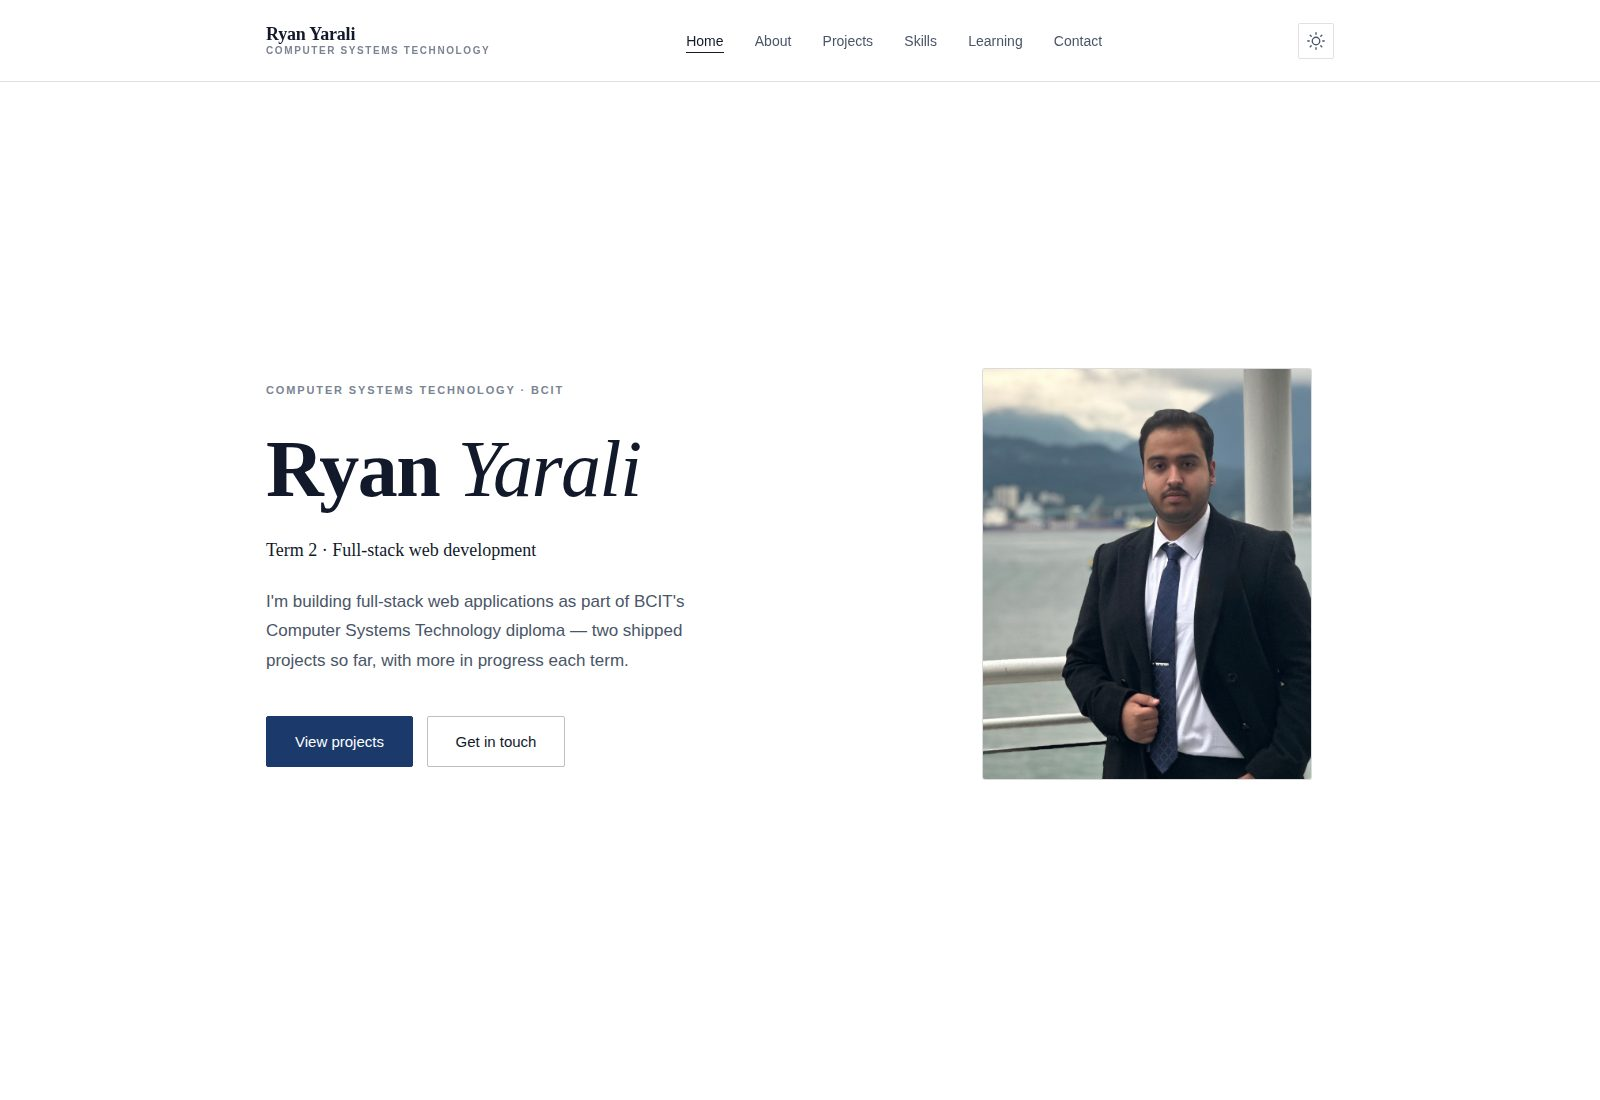
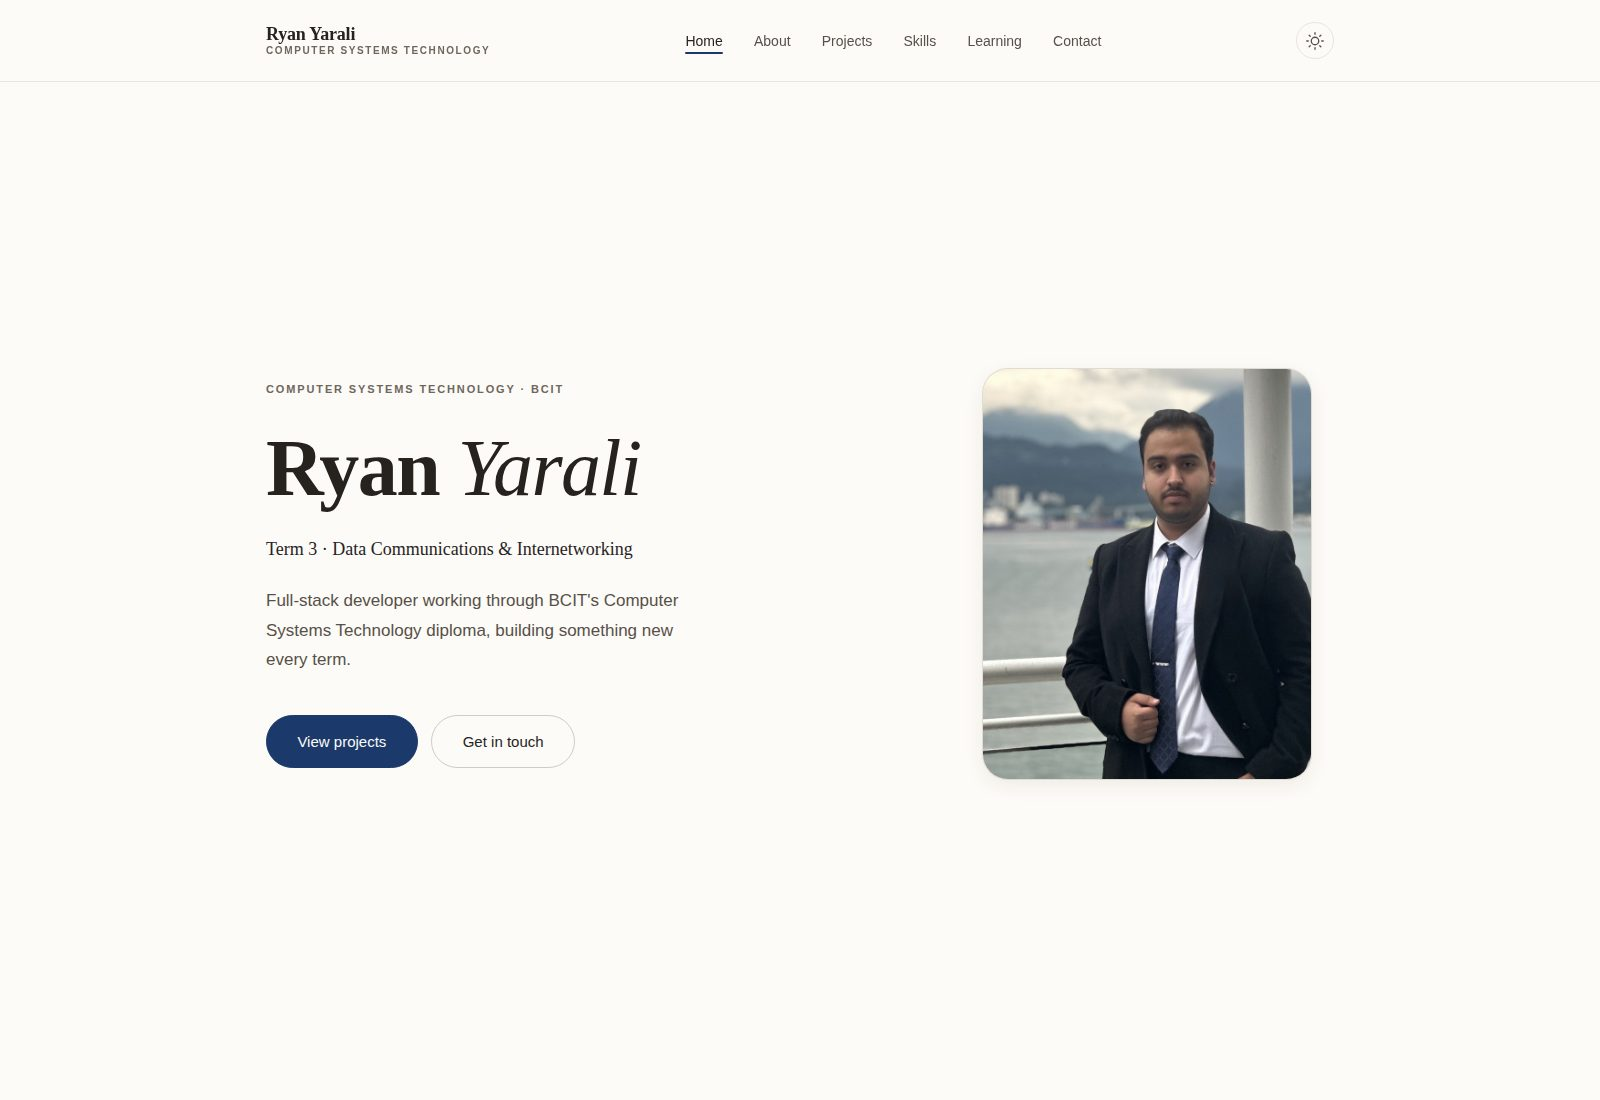
Warm the design: softer corners, ivory and cream neutrals
The navy direction had drifted cold. Every corner was 2 to 6px, nearly
every element carried a hard 1px border, and the neutrals were all
cool: pure white, blue-grey surfaces, cool navy text. Correct, but
severe. The site read like a legal document rather than somewhere a
person works.

Corners: radii go from 2/3/4/6px to 8/12/18/26px, plus a pill token.
Buttons, tags, the theme toggle, and back-to-top are now fully rounded,
the same language the Nook Look build uses.

Neutrals warm up. Light mode moves from #ffffff and blue-grey #f7f8fa
to ivory #fdfbf7 and cream #f5f0e8, with warm charcoal text instead of
cool navy. Dark mode moves from navy-black #0d1320 to warm charcoal
#1a1714. Navy stays as the accent, so the identity holds while the page
around it stops feeling refrigerated. Shadows are tinted warm rather
than grey.

Fewer hard lines. The rule between every section is gone, leaving
alternating surfaces and spacing to separate them. Form fields become
filled and rounded with a soft focus ring instead of austere underlines.
Card and image corners open up, and list bullets soften from dashes to
dots.

Contrast was re-measured across the new palette before committing:
every text pairing still passes WCAG AA, lowest is 4.82:1.

Also regenerated the portfolio thumbnail, which still showed the old
cool-white design and read "Term 2". That is the third time this
self-referential screenshot has gone stale after a design change.

diff --git a/assets/css/components.css b/assets/css/components.css
@@ -4,11 +4,11 @@
   align-items: center;
   justify-content: center;
   gap: 0.5rem;
-  padding: 0.8rem 1.75rem;
+  padding: 0.85rem 1.9rem;
   font-size: 0.9375rem;
   font-weight: 500;
   font-family: var(--font-sans);
-  border-radius: var(--radius-sm);
+  border-radius: var(--radius-pill);
   text-align: center;
   border: 1px solid transparent;
   cursor: pointer;
@@ -47,10 +47,10 @@
 }
 
 .theme-toggle {
-  width: 2.25rem;
-  height: 2.25rem;
+  width: 2.35rem;
+  height: 2.35rem;
   padding: 0;
-  border-radius: var(--radius-sm);
+  border-radius: var(--radius-pill);
   background: transparent;
   border: 1px solid var(--color-border);
   cursor: pointer;
@@ -86,9 +86,9 @@ html:not([data-theme="dark"]) .moon-icon {
 .tech-tag {
   display: inline-flex;
   align-items: center;
-  padding: 0.3rem 0.65rem;
+  padding: 0.35rem 0.8rem;
   border: 1px solid var(--color-border);
-  border-radius: var(--radius-sm);
+  border-radius: var(--radius-pill);
   font-size: 0.75rem;
   font-weight: 450;
   letter-spacing: 0.02em;
@@ -115,7 +115,8 @@ html:not([data-theme="dark"]) .moon-icon {
 .surface-card {
   background: var(--color-surface);
   border: 1px solid var(--color-border);
-  border-radius: var(--radius-md);
+  border-radius: var(--radius-lg);
+  box-shadow: var(--shadow-sm);
 }
 
 .hero-cta,
@@ -144,14 +145,15 @@ html:not([data-theme="dark"]) .moon-icon {
 .form-group select,
 .form-group textarea {
   width: 100%;
-  padding: 0.7rem 0;
-  border: none;
-  border-bottom: 1px solid var(--color-border-strong);
-  border-radius: 0;
-  background: transparent;
+  padding: 0.85rem 1rem;
+  border: 1px solid var(--color-border);
+  border-radius: var(--radius-md);
+  background: var(--color-background);
   color: var(--color-text);
   font-size: 1rem;
-  transition: border-color var(--transition-fast);
+  transition:
+    border-color var(--transition-fast),
+    box-shadow var(--transition-fast);
 }
 
 .form-group select {
@@ -162,7 +164,8 @@ html:not([data-theme="dark"]) .moon-icon {
 .form-group select:focus,
 .form-group textarea:focus {
   outline: none;
-  border-color: var(--color-text);
+  border-color: var(--color-accent);
+  box-shadow: 0 0 0 3px var(--color-accent-soft);
 }
 
 .form-group textarea {
@@ -196,8 +199,9 @@ html:not([data-theme="dark"]) .moon-icon {
 
 .form-status.success,
 .form-status.error {
-  padding: 0.9rem 1.1rem;
-  border-left: 2px solid;
+  padding: 0.9rem 1.15rem;
+  border-left: 3px solid;
+  border-radius: var(--radius-md);
   background: var(--color-surface);
 }
 
@@ -223,9 +227,9 @@ html:not([data-theme="dark"]) .moon-icon {
 }
 
 .education-logo {
-  width: 60px;
-  height: 60px;
-  border-radius: var(--radius-sm);
+  width: 62px;
+  height: 62px;
+  border-radius: var(--radius-md);
   background: #ffffff;
   border: 1px solid var(--color-border);
   padding: 0.5rem;
@@ -280,9 +284,10 @@ html:not([data-theme="dark"]) .moon-icon {
 .project-row-media {
   display: block;
   position: relative;
-  border-radius: var(--radius-md);
+  border-radius: var(--radius-lg);
   overflow: hidden;
   border: 1px solid var(--color-border);
+  box-shadow: var(--shadow-sm);
   aspect-ratio: 16 / 11;
   background: var(--color-surface);
 }
@@ -343,8 +348,8 @@ html:not([data-theme="dark"]) .moon-icon {
   line-height: var(--line-height-snug);
   color: var(--color-text);
   margin-bottom: 1.5rem;
-  padding-left: 1.15rem;
-  border-left: 1px solid var(--color-border-strong);
+  padding-left: 1.25rem;
+  border-left: 2px solid var(--color-accent-soft);
   max-width: 46ch;
 }
 

diff --git a/assets/css/tokens.css b/assets/css/tokens.css
@@ -11,31 +11,35 @@
   --color-accent: #1b3a6b;
   --color-accent-strong: #12294d;
   --color-accent-soft: rgba(27, 58, 107, 0.07);
-  --color-on-accent: #ffffff;
+  --color-on-accent: #fdfbf7;
 
-  --color-background: #ffffff;
-  --color-surface: #f7f8fa;
-  --color-surface-2: #eef1f5;
-  --color-overlay: rgba(255, 255, 255, 0.9);
+  /* Warm neutrals: ivory and cream rather than white and blue-grey. */
+  --color-background: #fdfbf7;
+  --color-surface: #f5f0e8;
+  --color-surface-2: #ebe4d9;
+  --color-overlay: rgba(253, 251, 247, 0.9);
 
-  --color-text: #12192b;
-  --color-text-muted: #4a5568;
-  --color-text-subtle: #666e7d;
+  --color-text: #26231f;
+  --color-text-muted: #575049;
+  --color-text-subtle: #6f675d;
 
-  --color-border: rgba(18, 25, 43, 0.13);
-  --color-border-strong: rgba(18, 25, 43, 0.28);
+  --color-border: rgba(38, 35, 31, 0.1);
+  --color-border-strong: rgba(38, 35, 31, 0.22);
 
-  --color-danger: #a32b22;
-  --color-success: #1f6b47;
+  --color-danger: #a3392b;
+  --color-success: #2f6b4a;
 
-  --radius-sm: 2px;
-  --radius-md: 3px;
-  --radius-lg: 4px;
-  --radius-xl: 6px;
+  /* Generous corners. Tight radii read as severe. */
+  --radius-sm: 8px;
+  --radius-md: 12px;
+  --radius-lg: 18px;
+  --radius-xl: 26px;
+  --radius-pill: 999px;
 
-  --shadow-sm: 0 1px 2px rgba(18, 25, 43, 0.06);
-  --shadow-md: 0 6px 20px rgba(18, 25, 43, 0.07);
-  --shadow-lg: 0 18px 44px rgba(18, 25, 43, 0.1);
+  /* Warm-tinted shadows, so elevation reads soft rather than grey. */
+  --shadow-sm: 0 1px 3px rgba(58, 46, 32, 0.06);
+  --shadow-md: 0 6px 20px rgba(58, 46, 32, 0.07);
+  --shadow-lg: 0 18px 44px rgba(58, 46, 32, 0.1);
 
   --ease: cubic-bezier(0.22, 0.61, 0.36, 1);
   --transition-base: 260ms var(--ease);
@@ -49,27 +53,27 @@
 html[data-theme="dark"] {
   color-scheme: dark;
 
-  --color-accent: #9db8dd;
-  --color-accent-strong: #c0d3ee;
-  --color-accent-soft: rgba(157, 184, 221, 0.12);
-  --color-on-accent: #0d1320;
+  --color-accent: #a8c0dd;
+  --color-accent-strong: #c4d5ec;
+  --color-accent-soft: rgba(168, 192, 221, 0.12);
+  --color-on-accent: #1a1714;
 
-  --color-background: #0d1320;
-  --color-surface: #131b2b;
-  --color-surface-2: #1a2335;
-  --color-overlay: rgba(13, 19, 32, 0.9);
+  --color-background: #1a1714;
+  --color-surface: #231f1b;
+  --color-surface-2: #2c2722;
+  --color-overlay: rgba(26, 23, 20, 0.9);
 
-  --color-text: #e8ecf3;
-  --color-text-muted: #a3adbf;
-  --color-text-subtle: #828da0;
+  --color-text: #f0ebe3;
+  --color-text-muted: #b3aa9e;
+  --color-text-subtle: #948a7d;
 
-  --color-border: rgba(232, 236, 243, 0.13);
-  --color-border-strong: rgba(232, 236, 243, 0.3);
+  --color-border: rgba(240, 235, 227, 0.11);
+  --color-border-strong: rgba(240, 235, 227, 0.24);
 
-  --color-danger: #e0827a;
-  --color-success: #6fb894;
+  --color-danger: #e08b7a;
+  --color-success: #7fba96;
 
-  --shadow-sm: 0 1px 2px rgba(0, 0, 0, 0.5);
-  --shadow-md: 0 6px 20px rgba(0, 0, 0, 0.4);
-  --shadow-lg: 0 18px 44px rgba(0, 0, 0, 0.5);
+  --shadow-sm: 0 1px 3px rgba(0, 0, 0, 0.4);
+  --shadow-md: 0 6px 20px rgba(0, 0, 0, 0.34);
+  --shadow-lg: 0 18px 44px rgba(0, 0, 0, 0.44);
 }

diff --git a/assets/css/layout.css b/assets/css/layout.css
@@ -144,9 +144,10 @@ html.js-ready .reveal-group > * {
   position: absolute;
   left: 0.8rem;
   right: 0.8rem;
-  bottom: 0.4rem;
-  height: 1px;
-  background: currentColor;
+  bottom: 0.35rem;
+  height: 2px;
+  border-radius: var(--radius-pill);
+  background: var(--color-accent);
   transform: scaleX(0);
   transform-origin: left;
   transition: transform var(--transition-fast);
@@ -186,7 +187,7 @@ html.js-ready .reveal-group > * {
   justify-content: center;
   align-items: center;
   border: 1px solid var(--color-border);
-  border-radius: var(--radius-sm);
+  border-radius: var(--radius-pill);
   transition: border-color var(--transition-fast);
 }
 
@@ -233,7 +234,7 @@ html.js-ready .reveal-group > * {
     padding: 0.4rem;
     background: var(--color-background);
     border: 1px solid var(--color-border);
-    border-radius: var(--radius-md);
+    border-radius: var(--radius-lg);
     box-shadow: var(--shadow-lg);
     gap: 0;
     max-height: 0;
@@ -259,9 +260,9 @@ html.js-ready .reveal-group > * {
     width: 100%;
     text-align: left;
     justify-content: flex-start;
-    padding: 0.8rem 0.85rem;
+    padding: 0.8rem 1rem;
     font-size: 0.9375rem;
-    border-radius: var(--radius-sm);
+    border-radius: var(--radius-md);
   }
 
   .nav-link::after {
@@ -278,11 +279,6 @@ html.js-ready .reveal-group > * {
 .section {
   padding: 4.5rem 0;
   position: relative;
-  border-top: 1px solid var(--color-border);
-}
-
-.section:first-of-type {
-  border-top: none;
 }
 
 @media (min-width: 768px) {
@@ -368,9 +364,9 @@ html.js-ready .reveal-group > * {
   position: fixed;
   right: 1.5rem;
   bottom: 1.5rem;
-  width: 42px;
-  height: 42px;
-  border-radius: var(--radius-sm);
+  width: 44px;
+  height: 44px;
+  border-radius: var(--radius-pill);
   background: var(--color-background);
   border: 1px solid var(--color-border);
   color: var(--color-text-muted);

diff --git a/assets/css/pages.css b/assets/css/pages.css
@@ -82,10 +82,11 @@
 .hero-image-placeholder {
   width: 100%;
   height: 100%;
-  border-radius: var(--radius-md);
+  border-radius: var(--radius-xl);
   overflow: hidden;
   background: var(--color-surface);
   border: 1px solid var(--color-border);
+  box-shadow: var(--shadow-md);
 }
 
 .hero-image-placeholder img {
@@ -378,9 +379,11 @@
   position: absolute;
   left: 0;
   top: 0.72em;
-  width: 0.3rem;
-  height: 1px;
-  background: var(--color-text-subtle);
+  width: 0.35rem;
+  height: 0.35rem;
+  border-radius: 50%;
+  background: var(--color-accent);
+  opacity: 0.55;
 }
 
 .project-detail-page .tech-list {
@@ -391,9 +394,9 @@
 
 .project-detail-page .tech-item {
   display: inline-flex;
-  padding: 0.3rem 0.65rem;
+  padding: 0.35rem 0.8rem;
   border: 1px solid var(--color-border);
-  border-radius: var(--radius-sm);
+  border-radius: var(--radius-pill);
   font-size: 0.75rem;
   letter-spacing: 0.02em;
   color: var(--color-text-muted);
@@ -432,7 +435,7 @@
   width: 100%;
   height: auto;
   border: 1px solid var(--color-border);
-  border-radius: var(--radius-sm);
+  border-radius: var(--radius-lg);
   display: block;
   margin-bottom: 0.75rem;
 }
@@ -468,8 +471,8 @@
   content: "";
   display: block;
   width: 4.5rem;
-  height: 3rem;
-  border-radius: var(--radius-sm);
+  height: 3.25rem;
+  border-radius: var(--radius-md);
   background: var(--swatch);
   border: 1px solid var(--color-border);
 }
@@ -489,7 +492,7 @@
   width: 100%;
   max-width: 300px;
   height: auto;
-  border-radius: var(--radius-sm);
+  border-radius: var(--radius-md);
   border: 1px solid var(--color-border);
   display: block;
   margin: 0 0 0.75rem;
